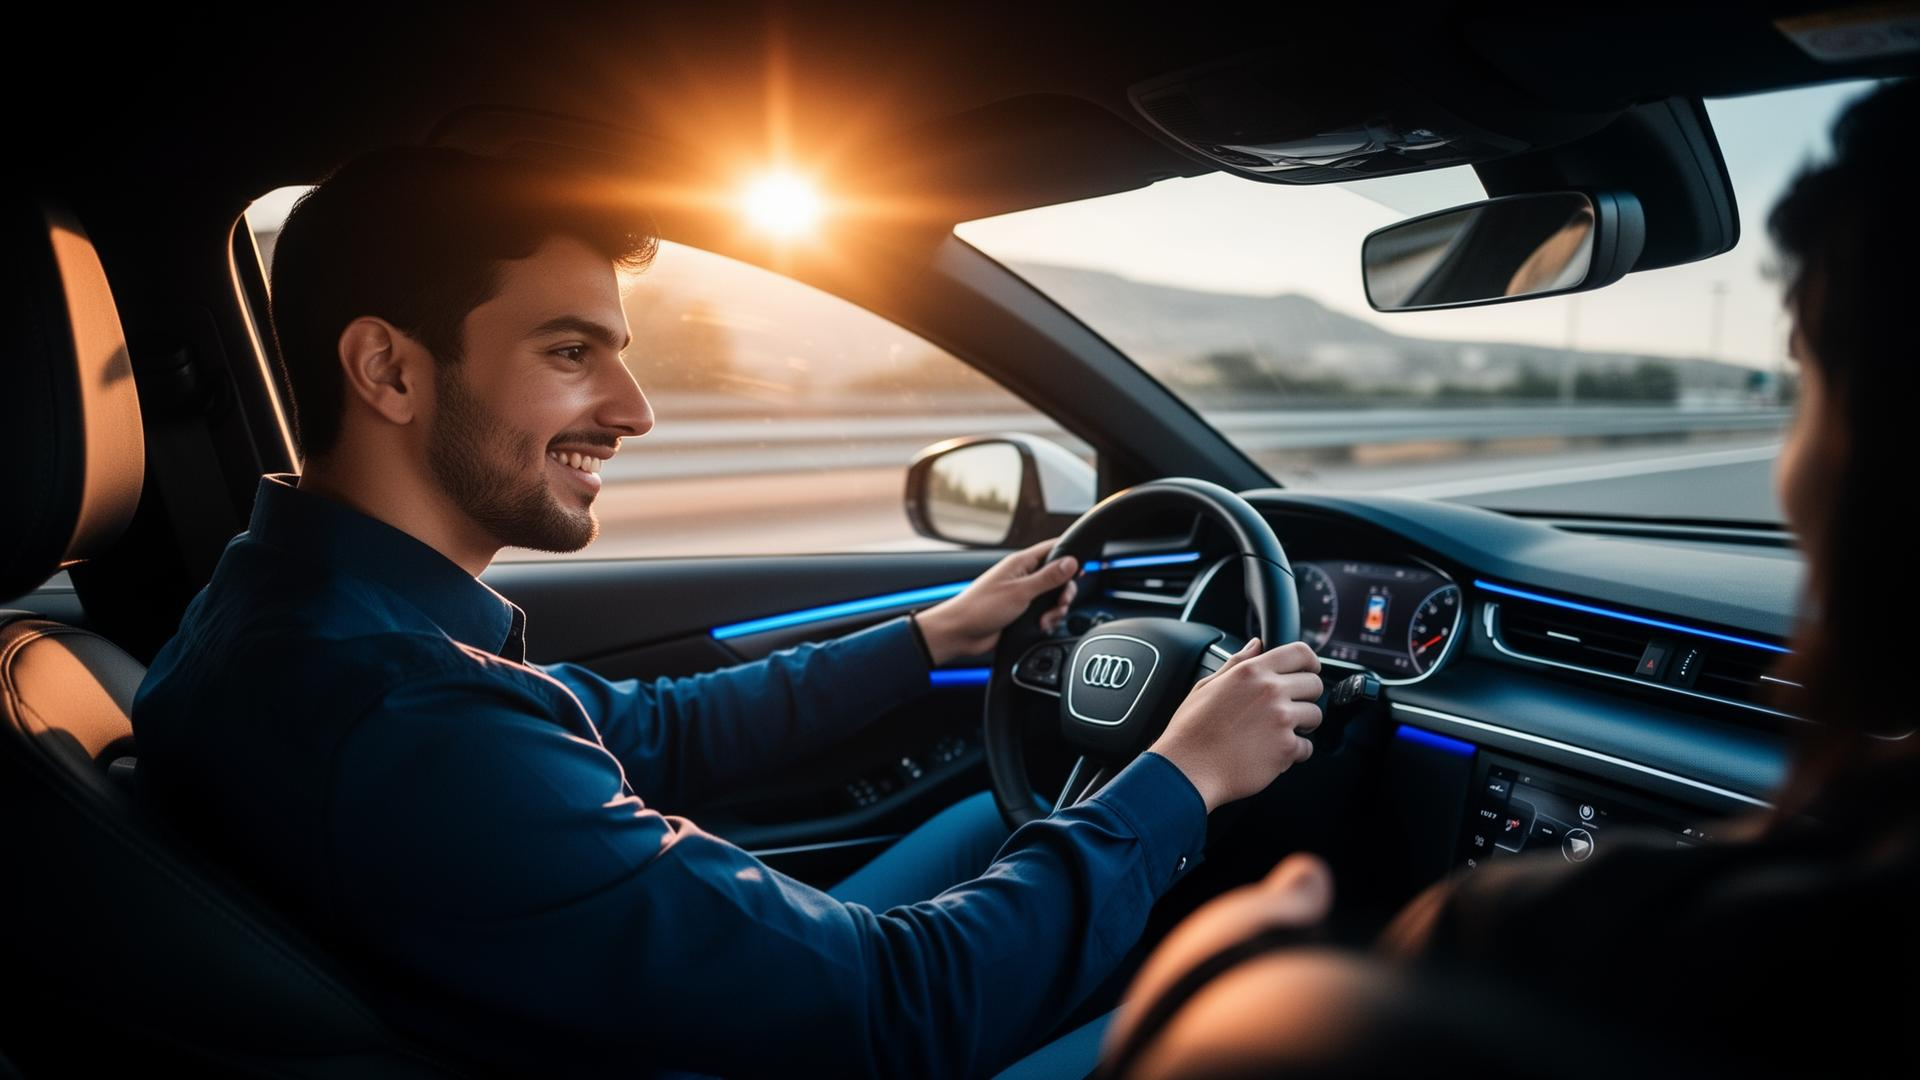
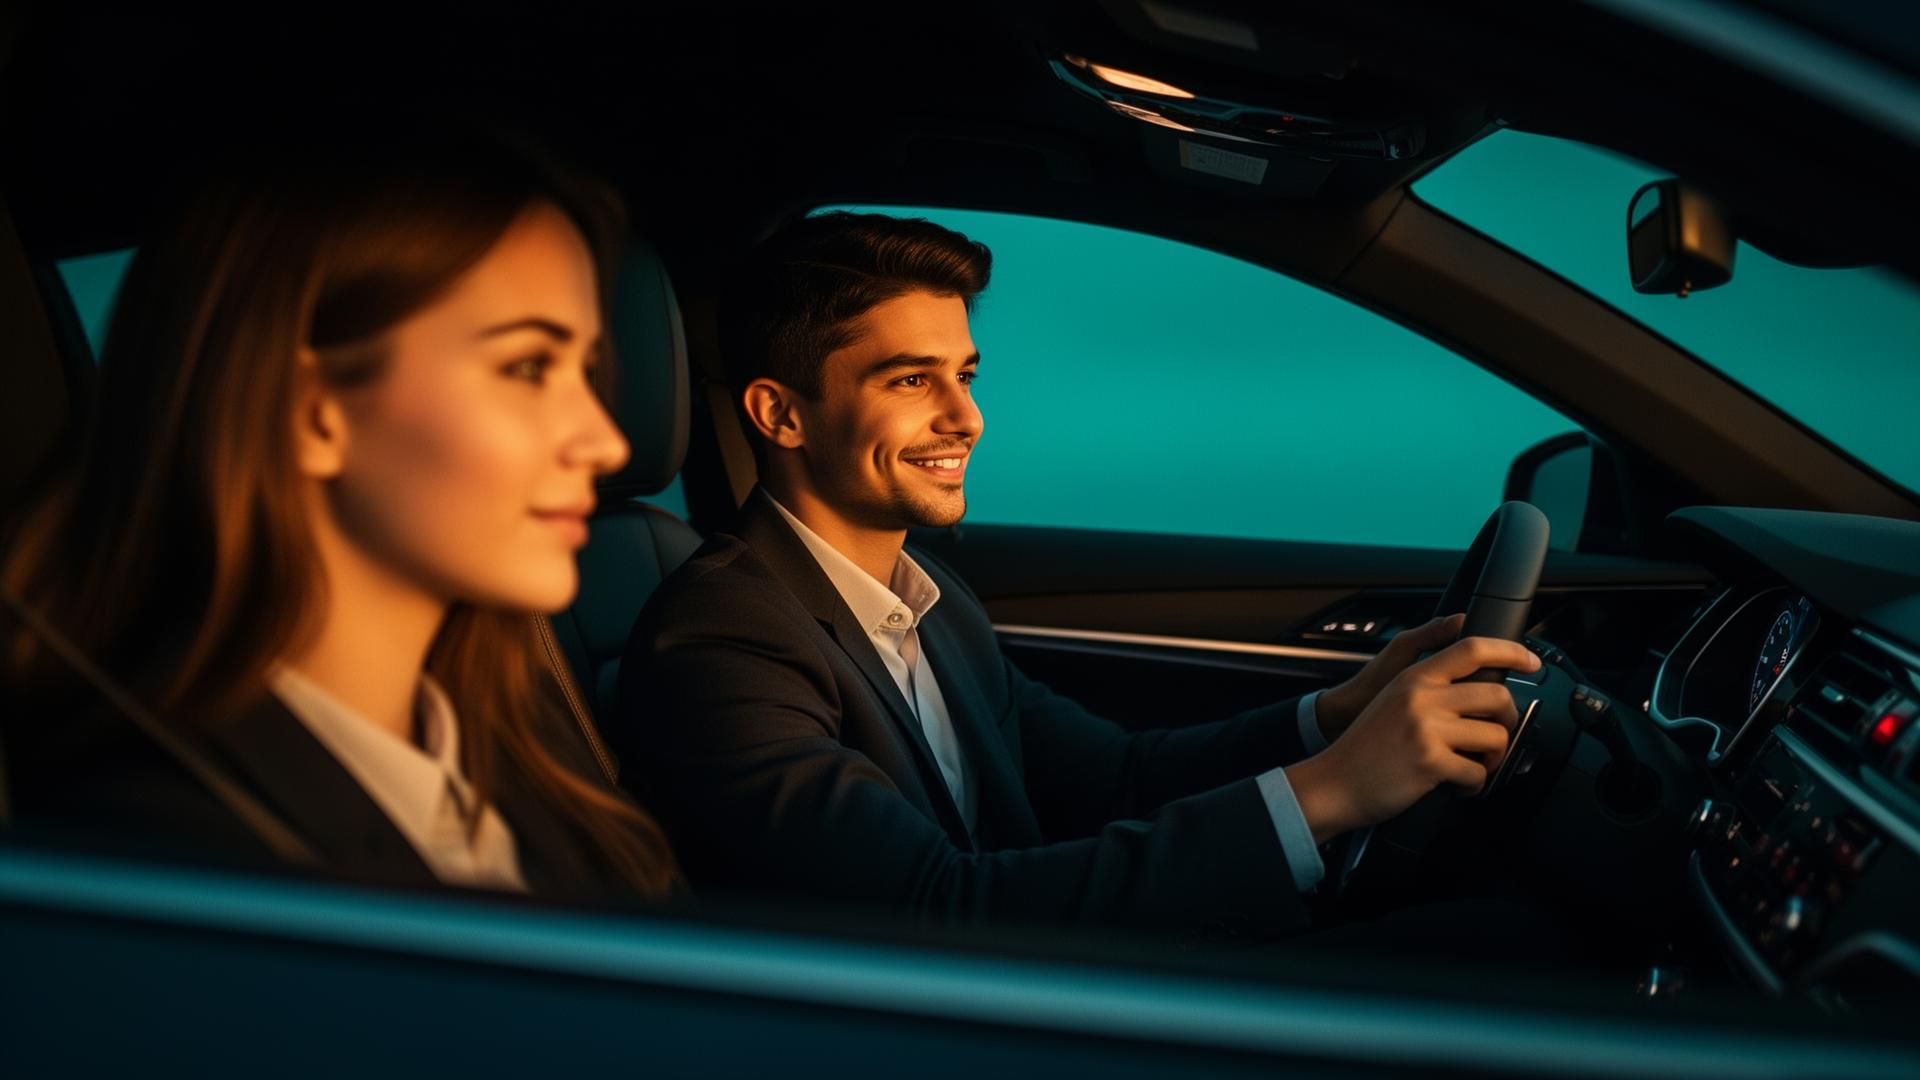
Changes

diff --git a/.lovable/plan.md b/.lovable/plan.md
@@ -1,0 +1,75 @@
+## Premium Redesign — חן כחלון
+
+Inspired by the reference (cinematic dark hero, orange/blue glows, product-style cards on black, glassy nav, gradient CTAs) — but original execution.
+
+### 1. New cinematic hero image
+Generate a fresh hero with `imagegen` (premium): realistic young driving instructor + female student inside a modern car interior, warm cinematic key-light from the left window, deep teal/blue rim light, shallow DOF, dashboard glow visible. Replace `src/assets/hero-driving.jpg`.
+
+Add a second generated portrait of the instructor (standalone, urban dusk backdrop with motorcycle silhouette) for the About section.
+
+### 2. Hero section redesign
+- Two-column layout (image left edge-bleed, text right) — desktop
+- Mobile: full-bleed image with strong gradient scrim, text below
+- Massive Hebrew display headline (font weight 900, tighter tracking) with the word "בביטחון" in gradient + handwritten-style "עד ההצלחה!" accent in orange below
+- Three pill-style CTAs: orange-gradient primary "התחל ללמוד עכשיו", green WhatsApp, glass "התקשר עכשיו"
+- Glass trust-bar UNDER the CTAs with 4 inline icons+labels (יחס אישי / כלים חדשים / ליווי עד הטסט / מאות תלמידים)
+- Animated speedometer/gauge visual element bottom-left as decorative accent (CSS/SVG, not image)
+- Stronger orange + blue radial glows behind the image, subtle grid overlay
+
+### 3. Categories — product-card style
+- Each card: dark elevated panel with thin orange ring on icon, large product image (car/bike) center-stage, title + short desc, ghost-style "אני מעוניין בפרטים" pill button at bottom
+- Generate 4 product images: sedan (B), sport bike A2, scooter A1, naked bike A — all on transparent/dark studio background, dramatic underlight
+- Hover: lift + cyan-to-orange border gradient + glow
+
+### 4. About section
+- Left: portrait card with dramatic city dusk background (new generated image)
+- Right: heading "קצת עליי" (blue accent eyebrow), bio paragraph, then a horizontal stat strip: **350+ תלמידים** · **5 שנות ניסיון** · **98% הצלחה** with gradient numbers
+- Below stats: 7 checklist items in two columns with cyan checkmark chips
+- Faint lightning/grid texture in section background
+
+### 5. Why-Me grid
+- 6 compact cards in 3-col grid
+- Each: large outline icon (alternating blue/orange), bold title, one-line desc
+- Subtle inner border glow on hover
+
+### 6. Reviews + Gallery
+- 3 testimonial cards in a horizontal scroller with arrow controls (mobile swipe)
+- Each card: 5 stars, quote, name + small avatar
+- "גלריית תלמידים מרוצים" — 5-image horizontal strip with parallax-style hover scale (use placeholder gradient cards, user can swap real photos later)
+
+### 7. Areas + Lead Form combo section
+- Split layout on desktop: left = "אזורי לימוד / אשקלון והסביבה" with stylized map illustration + 3 "הבטחות" mini-list (חזרה מהירה / ללא התחייבות / התאמה אישית); right = lead form on raised card
+- Form unchanged in logic (mailto), restyled with floating labels and orange gradient submit button
+
+### 8. Final CTA band
+- Full-width gradient (deep blue → black → orange highlight) with centered "מתחילים את הדרך לרישיון?" + 2 large CTAs (WhatsApp green + phone orange-gradient)
+
+### 9. Footer
+- 3-column on desktop / stacked on mobile
+- Logo + tagline | contact info (phone, email, area) | social icons (Instagram, Facebook, TikTok) as glass circles with hover glow
+- Bottom row: copyright + small print
+
+### 10. Sticky mobile bar
+- Keep, restyle: 3 equal segments with icons (WhatsApp / Phone / Form) on a glass background
+
+### Design tokens (update `src/styles.css`)
+- Slightly deeper background (`oklch(0.06 0.012 250)`) for more luxe feel
+- Add `--glow-orange` and `--glow-blue` tokens
+- New utility `.ring-glow` for soft outer rings on cards
+- Add `.text-display` utility (font-weight 900, letter-spacing -0.03em, line-height 0.95) for hero
+- Optional Hebrew display font: add `Assistant` or keep `Heebo` 900 — keep Heebo for consistency
+
+### Files to change
+- `src/assets/hero-driving.jpg` — regenerate cinematic
+- `src/assets/about-portrait.jpg` — new
+- `src/assets/vehicles/{sedan,bike-a2,scooter-a1,bike-a}.png` — 4 new product images (transparent PNG)
+- `src/styles.css` — token tweaks, new utilities
+- `src/routes/index.tsx` — full restructure of all sections per above
+- `src/routes/__root.tsx` — minor: keep meta, possibly add JSON-LD LocalBusiness
+
+### Out of scope (intentionally)
+- No backend/Cloud setup (form stays mailto)
+- No new routes (single landing page)
+- No payment, auth, or DB
+
+After approval I'll execute in this order: generate images → update tokens → rebuild `index.tsx` section by section → verify in preview at the mobile viewport.
